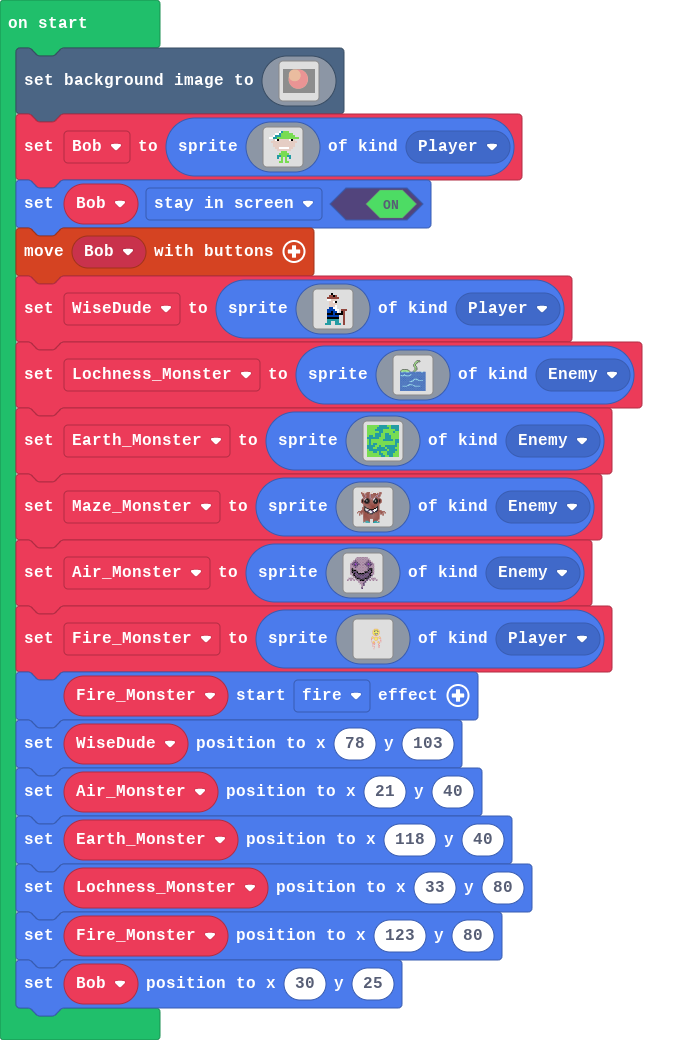
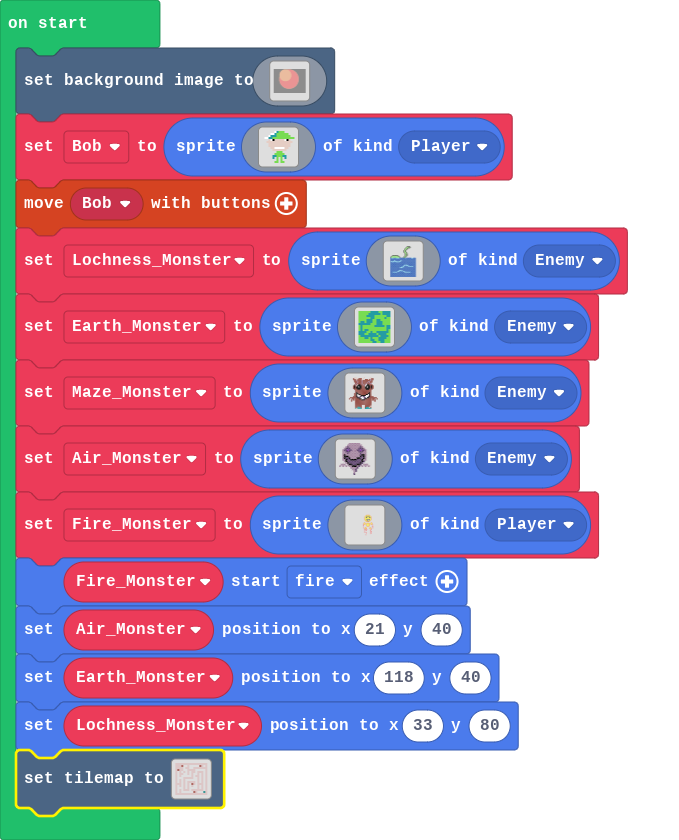
Update main.blocks, main.ts

diff --git a/main.ts b/main.ts
@@ -349,5 +349,21 @@ WiseDude.setPosition(78, 103)
 Air_Monster.setPosition(21, 40)
 Earth_Monster.setPosition(118, 40)
 Lochness_Monster.setPosition(33, 80)
-Fire_Monster.setPosition(123, 80)
-Bob.setPosition(30, 25)
+tiles.setTilemap(tiles.createTilemap(hex`1000100001010101010101010101010101010101010101030000010000000000030100010101010100010100000101010101010101030101000001010101000000000001010001000100010001010001010100010100010100000100010000010001000101000100000000000100010100010001010000000101010101000001000100010100010001000000000000010001000101000100010001010101000100010001010101000100010003010001010100010100010001000100010000010001000101000000010001000000000100010001010001000101010001010101010100010100010000000000000301000000020101010101010101010101010101010101`, img`
+    2 2 2 2 2 2 2 2 2 2 2 2 2 2 2 2 
+    2 2 2 . . . 2 . . . . . . 2 . 2 
+    2 2 2 2 . 2 2 . . 2 2 2 2 2 2 2 
+    2 . 2 2 . . 2 . 2 2 . . . . . 2 
+    2 . 2 . 2 . 2 . 2 2 . 2 2 2 . 2 
+    2 . 2 2 . . 2 . 2 . . 2 . 2 . 2 
+    2 . 2 . . . . . 2 . 2 2 . 2 . 2 
+    2 . . . 2 2 2 2 2 . . 2 . 2 . 2 
+    2 . 2 . 2 . . . . . . 2 . 2 . 2 
+    2 . 2 . 2 . 2 2 2 2 . 2 . 2 . 2 
+    2 2 2 . 2 . 2 . . 2 . 2 . 2 . 2 
+    2 . 2 . 2 . 2 . 2 . . 2 . 2 . 2 
+    2 . . . 2 . 2 . . . . 2 . 2 . 2 
+    2 . . . 2 2 2 . 2 2 2 2 2 2 . 2 
+    2 . 2 . . . . . . . 2 . . . . 2 
+    2 2 2 2 2 2 2 2 2 2 2 2 2 2 2 2 
+    `, [myTiles.transparency16,sprites.dungeon.floorLight0,sprites.dungeon.collectibleBlueCrystal,sprites.dungeon.chestClosed], TileScale.Sixteen))
